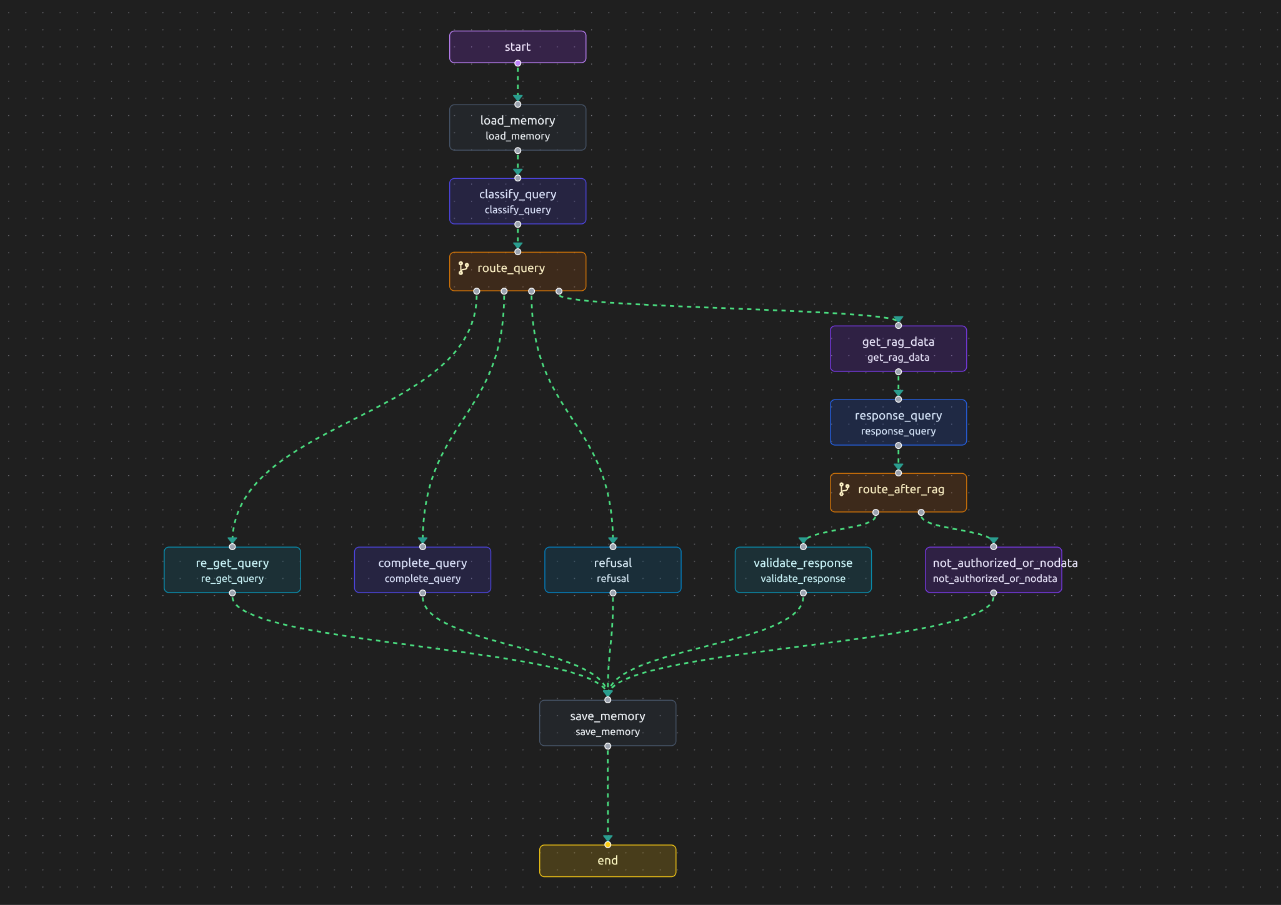
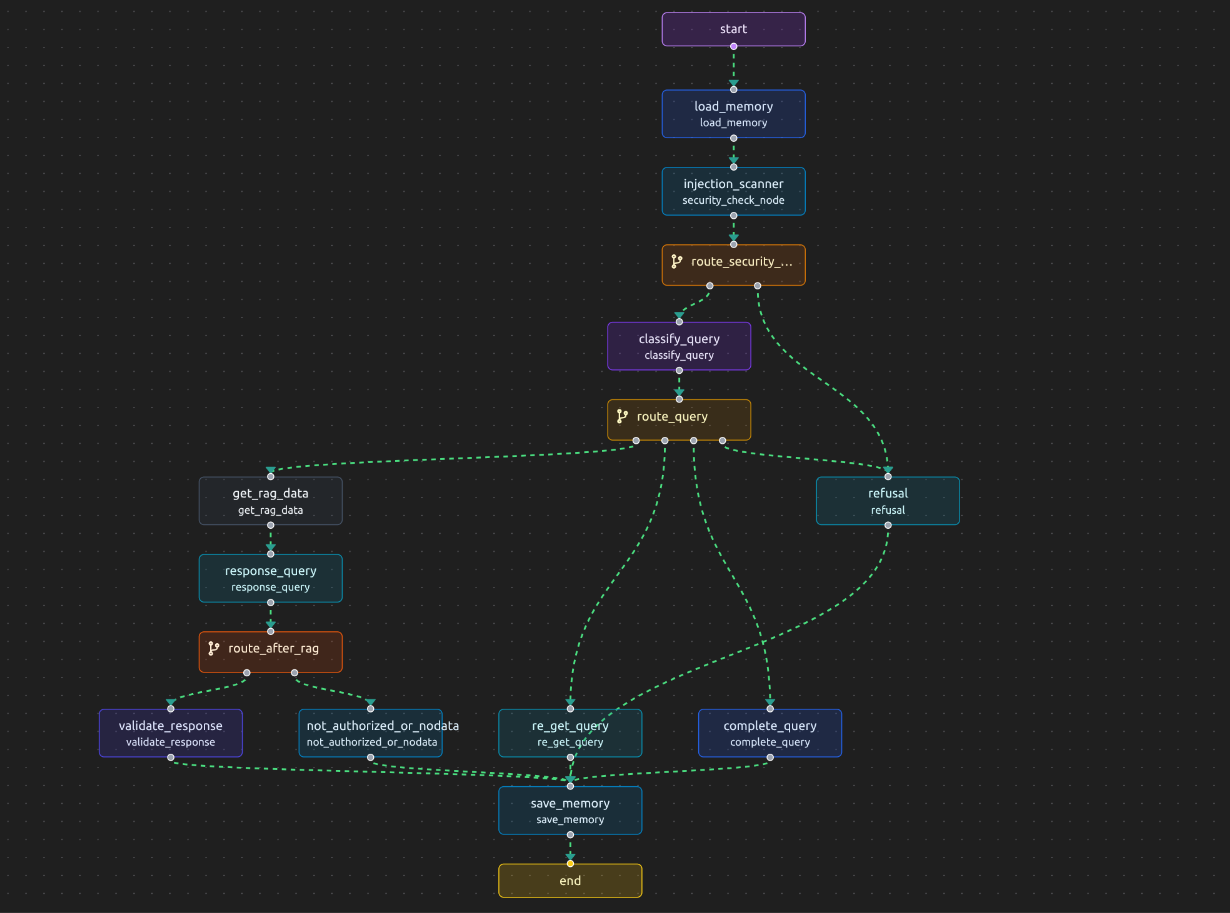
Added Extra Security For Prompt Injection detection  in Graph or Query flow

diff --git a/gen_ai/graph.py b/gen_ai/graph.py
@@ -12,8 +12,12 @@ from gen_ai.nodes import (
     response_query,
     route_after_rag,
     route_query,
+    route_security_check,
     save_memory,
+    security_check_node,
     validate_response,
+    injection_scanner,
+    
 )
 
 workflow = StateGraph(QAState)
@@ -28,11 +32,14 @@ workflow.add_node("refusal", refusal)
 workflow.add_node("not_authorized_or_nodata", not_authorized_or_nodata)
 workflow.add_node("validate_response", validate_response)
 workflow.add_node("save_memory", save_memory)
+workflow.add_node("injection_scanner",security_check_node)
 
 workflow.add_edge(START, "load_memory")
-workflow.add_edge("load_memory", "classify_query")
-
 workflow.add_edge( "get_rag_data","response_query")
+
+workflow.add_edge("load_memory", "injection_scanner")
+# workflow.add_edge("injection_scanner", "classify_query")
+
 
 workflow.add_edge("re_get_query", "save_memory")
 workflow.add_edge("complete_query", "save_memory")
@@ -45,10 +52,19 @@ workflow.add_conditional_edges(
     "classify_query",
     route_query,
     {
+        "get_rag_data": "get_rag_data",
         "re_get_query": "re_get_query",
         "complete_query": "complete_query",
         "refusal": "refusal",
-        "get_rag_data": "get_rag_data",
+    },
+)
+
+workflow.add_conditional_edges(
+    "injection_scanner",
+    route_security_check,
+    {
+        "classify_query": "classify_query",
+        "refusal": "refusal",
     },
 )
 

diff --git a/gen_ai/nodes.py b/gen_ai/nodes.py
@@ -4,12 +4,14 @@ from typing import List
 from langchain_core.documents import Document
 from langchain_core.documents import Document
 from langchain_core.prompts import ChatPromptTemplate
+from llm_guard.input_scanners import PromptInjection
 
 # from typing_extensions import TypedDict
 from model.context import QAState
 
 from service.memory_data import get_last_n_messages, save_message_to_db
 
+injection_scanner = PromptInjection(threshold=0.5)
 
 async def summarize_messages(old_messages):
 
@@ -274,3 +276,19 @@ async def save_memory(state: QAState) -> QAState:
     )
 
     return state
+
+async def security_check_node(state: QAState):
+    prompt = state.question
+    sanitized_prompt, is_safe, risk_score = injection_scanner.scan(prompt)
+    if( is_safe < 0.5):
+        state.is_safe = False
+    else :
+        state.is_safe = True
+    
+async def route_security_check(stae:QAState):
+    if(stae.is_safe ):
+        return "classify_query"
+    else :
+        return "refusal"
+        
+    

diff --git a/model/context.py b/model/context.py
@@ -19,6 +19,7 @@ class QAState(BaseModel):
     chat_id: str
     authorized: Optional[bool] = None
     db: Optional[AsyncSession] = None
+    is_safe:Optional[bool] = True
     model_config = ConfigDict(
         arbitrary_types_allowed=True
     )

diff --git a/service/memory_data.py b/service/memory_data.py
@@ -55,3 +55,4 @@ async def get_last_n_messages(
         {"role": row.role, "content": row.content}
         for row in rows
     ]
+    
